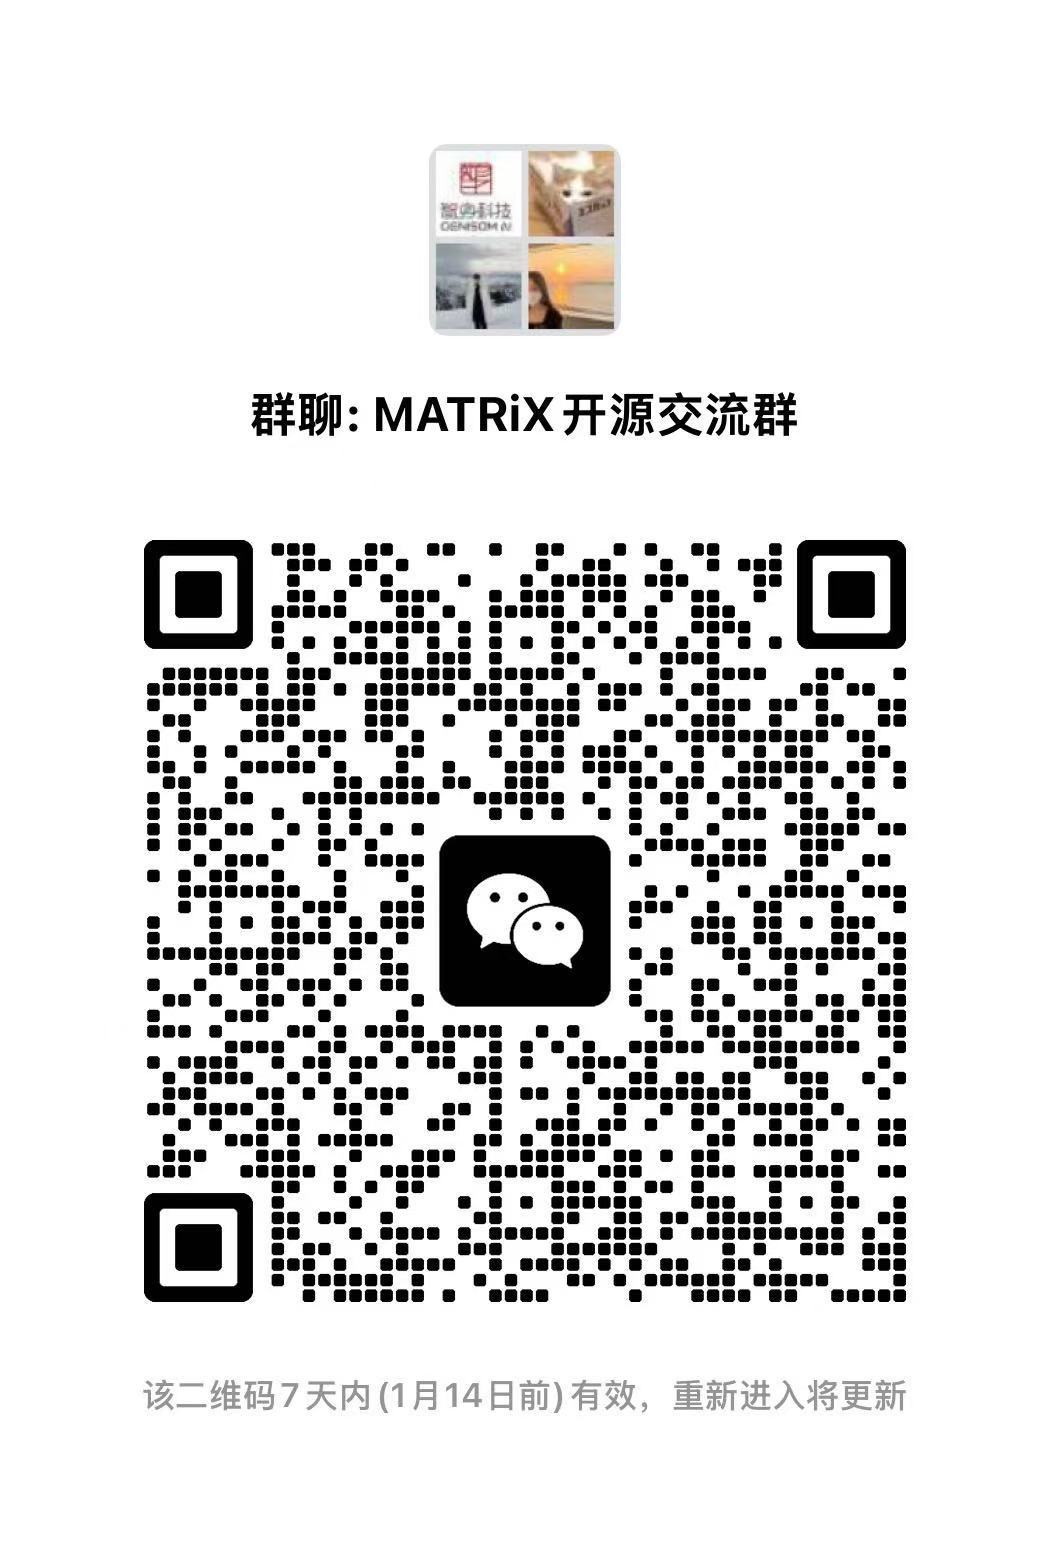
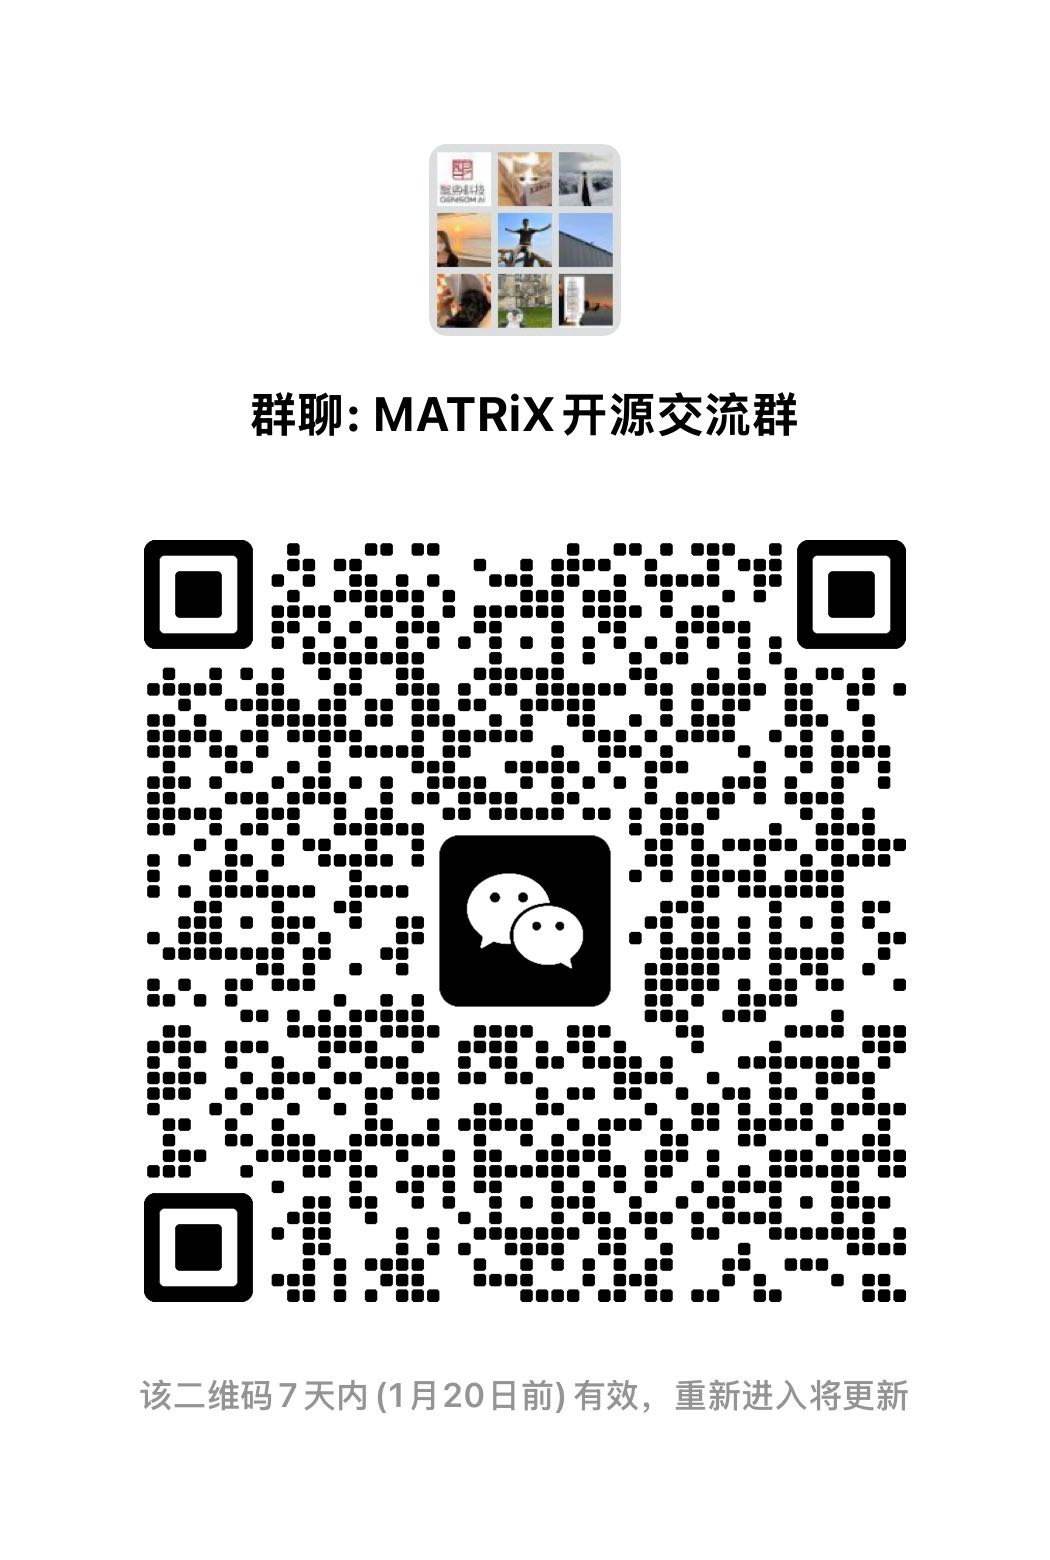
docs: add WeChat group QR code to README

diff --git a/README.md b/README.md
@@ -22,8 +22,9 @@ MATRiX is an advanced simulation platform that integrates **MuJoCo**, **Unreal E
 **Join our WeChat group for MATRiX simulation discussions:**
 
 <div align="center">
-  <img src="demo_gif/Wechat.png" alt="WeChat Group QR Code" width="300"/>
-  <p><em>Scan to join MATRiX simulation community</em></p>
+  <img src="demo_gif/Wechat.png" alt="WeChat Group QR Code" style="height: 280px; width: auto; margin: 0 12px;"/>
+  <img src="demo_gif/robo.jpg" alt="WeChat Assistant QR Code" style="height: 280px; width: auto; margin: 0 12px;"/>
+  <p><em>Scan to join MATRiX simulation community; if the group QR code expires, add the assistant</em></p>
 </div>
 
 ---
